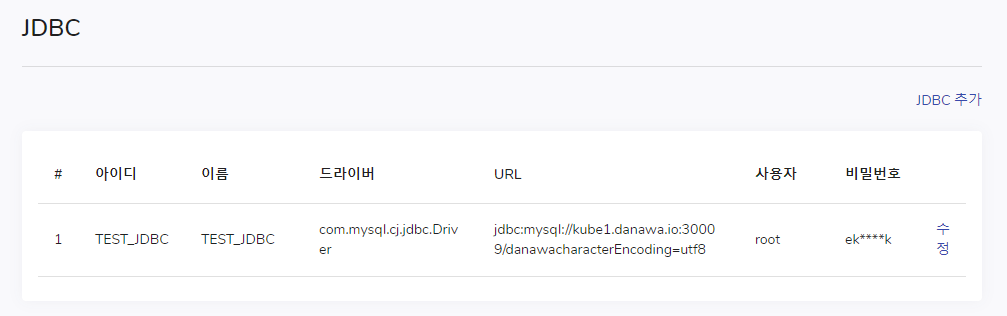
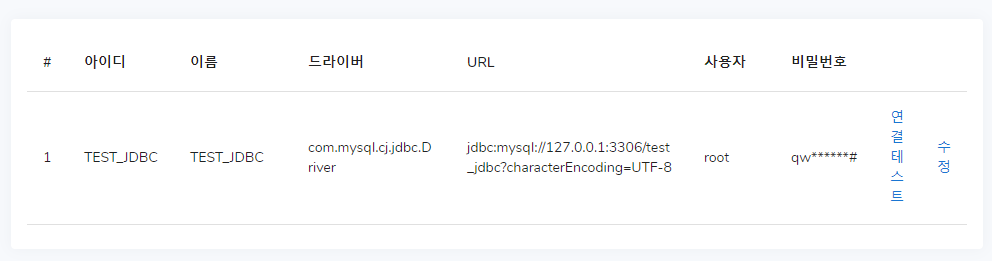
디서치 소개 - JDBC 이미지 교체 및 수정사항 업데이트

diff --git a/_posts/2020-08-18-DSearch-Management-Tool-JDBC.md b/_posts/2020-08-18-DSearch-Management-Tool-JDBC.md
@@ -30,6 +30,8 @@ JDBC메뉴에서는 데이터베이스 접속 정보를 관리하게됩니다.  
 
 ![/images/2020-08-18-DSearch-Management-Tool-JDBC/Untitled%201.png](/images/2020-08-18-DSearch-Management-Tool-JDBC/Untitled%201.png)
 
+![/images/2020-08-18-DSearch-Management-Tool-JDBC/Untitled%201.png](/images/2020-08-18-DSearch-Management-Tool-JDBC/Untitled%201-1.png)
+
 ### JDBC 연결테스트
 
 입력란에 JDBC 정보를 입력 후 연결테스트 버튼을 누르게 되면 아래 연결 결과를 표시하게 됩니다.  
@@ -37,6 +39,10 @@ JDBC메뉴에서는 데이터베이스 접속 정보를 관리하게됩니다.  
 이미지에서는 연결테스트 실패를 하였지만, 정상적으로 연결이 되었을 경우, 연결테스트 성공 메시지가 표시 됩니다. 추가 버튼을 누르게 되면 정보가 저장되고, 팝업창이 사라지게 됩니다.
 
 ![/images/2020-08-18-DSearch-Management-Tool-JDBC/Untitled%202.png](/images/2020-08-18-DSearch-Management-Tool-JDBC/Untitled%202.png)
+
+또한, 페이지에 접속 했을 때 등록한 JDBC 데이터베이스 접속 정보를 통해 연결테스트를 할 수 있게 지원합니다.
+
+![/images/2020-08-18-DSearch-Management-Tool-JDBC/Untitled%202.png](/images/2020-08-18-DSearch-Management-Tool-JDBC/Untitled%202-1.png)
 
 ### JDBC 수정/삭제
 
